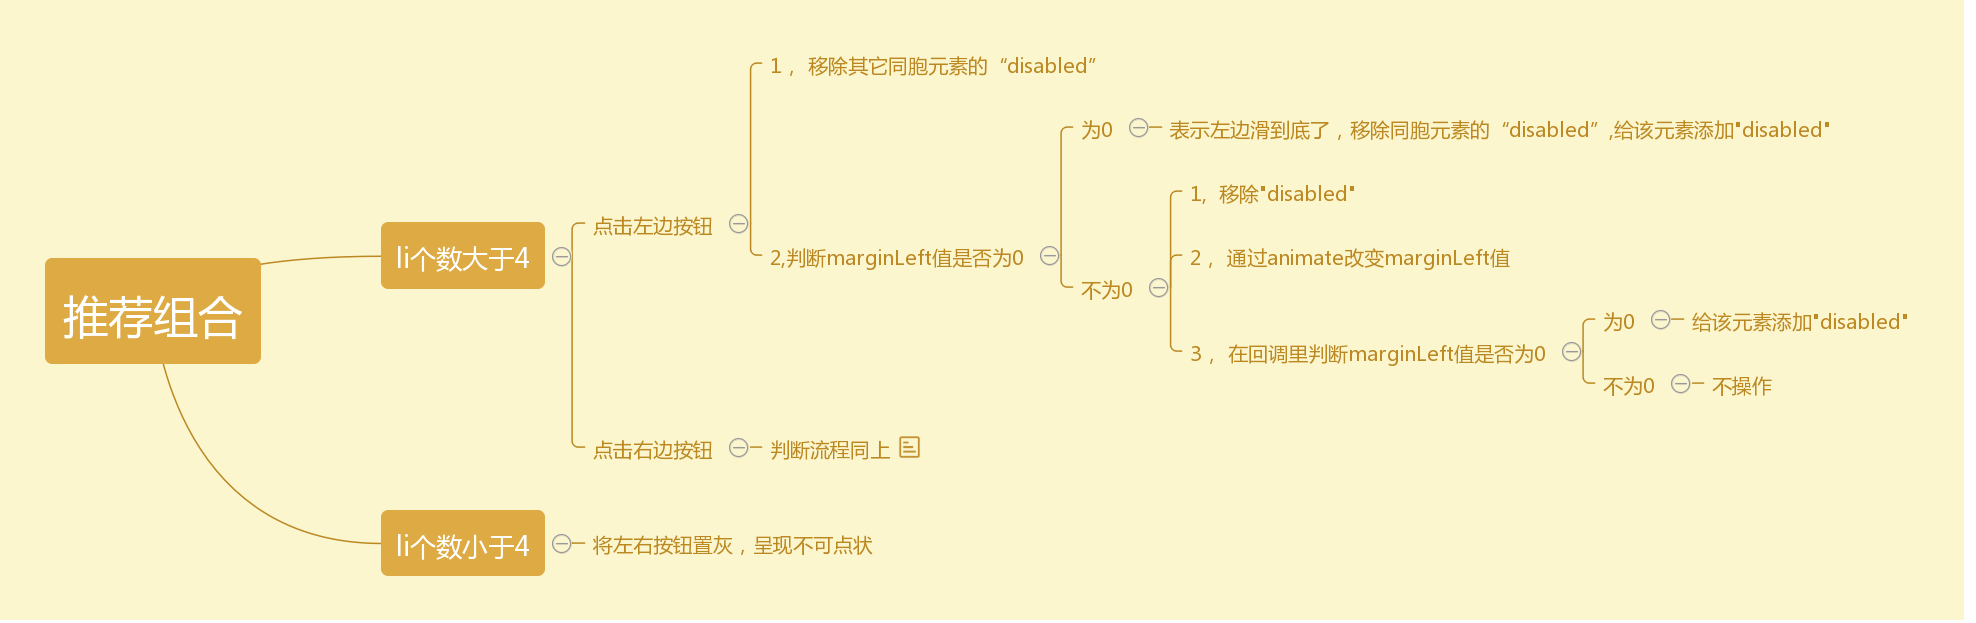
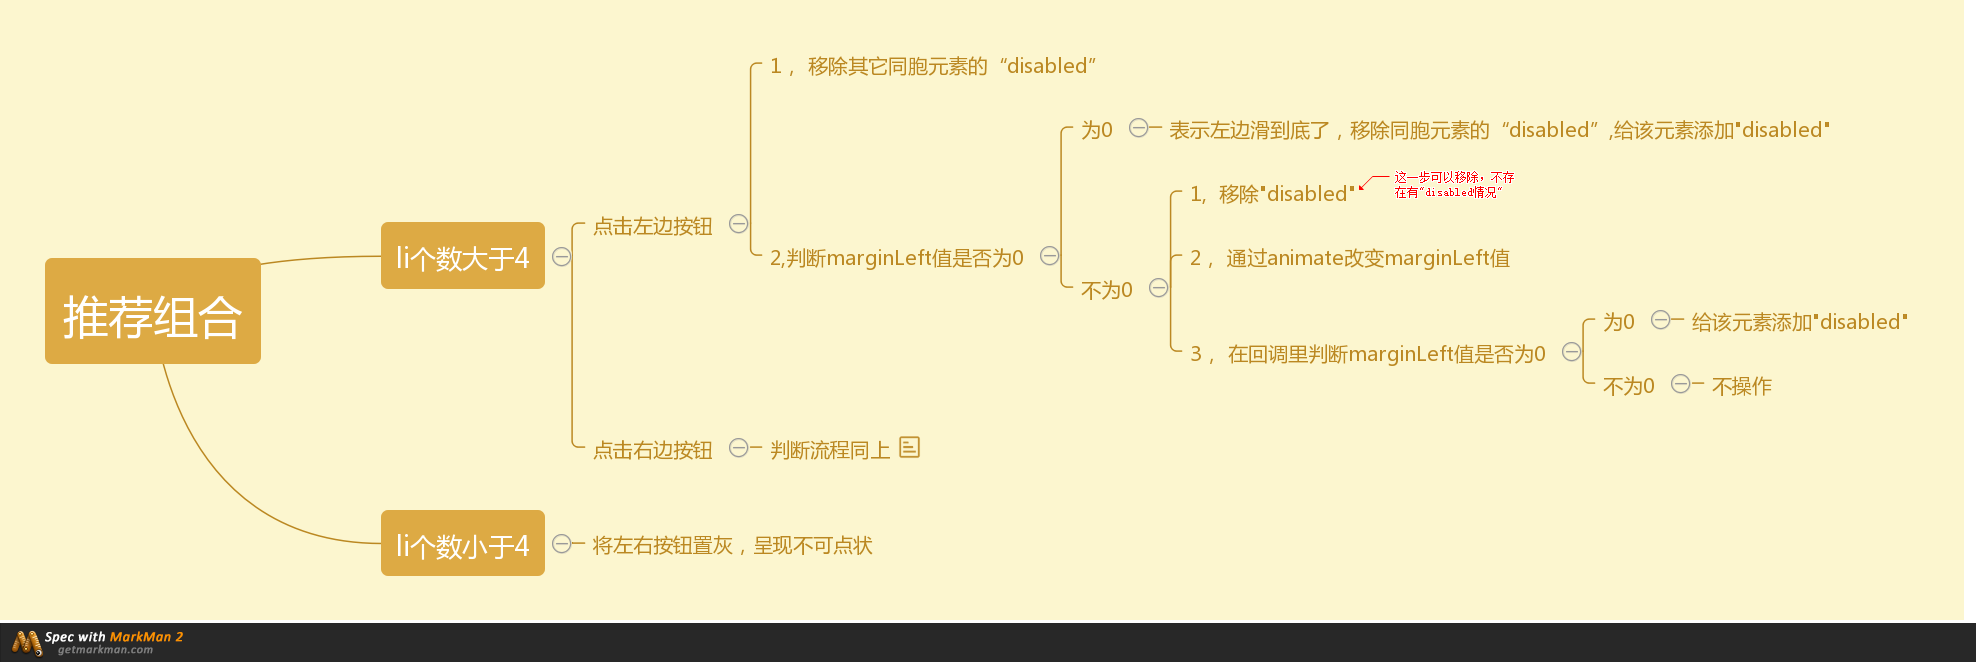
图片点击轮换

diff --git a/查看商品图片效果/js/goodsDetail.js b/查看商品图片效果/js/goodsDetail.js
@@ -14,7 +14,6 @@
                 $(this).parent(".btns").find("a").removeClass("disabled");
                 $(this).addClass("disabled");
             } else {
-                $(this).removeClass("disabled");
                 marLeft = marLeft + 165;
                 ulWrap.animate({ "margin-left": marLeft + "px" }, 500,function () {
                     if(marLeft == 0) {
@@ -31,7 +30,6 @@
                 $(this).parent(".btns").find("a").removeClass("disabled");
                 $(this).addClass("disabled");
             } else {
-                $(this).removeClass("disabled");
                 marLeft = marLeft - 165;
                 ulWrap.animate({ "margin-left": marLeft + "px" }, 500,function () {
                     if(dValue+marLeft < 1) {
